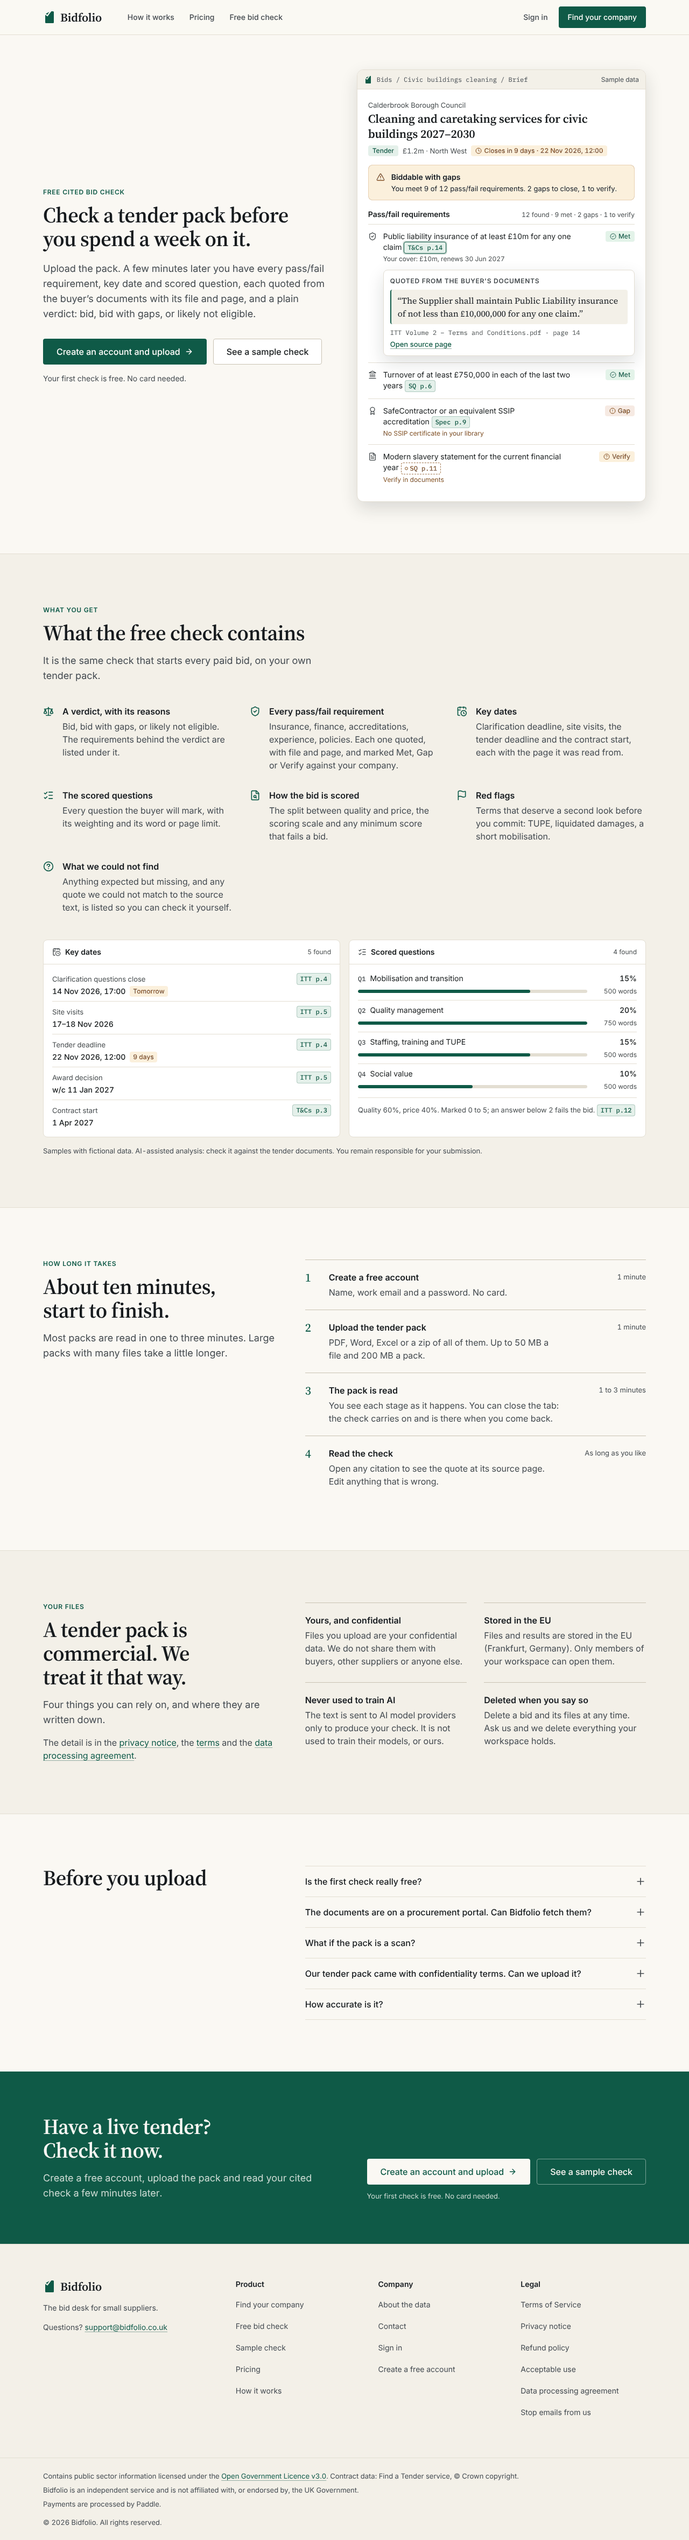
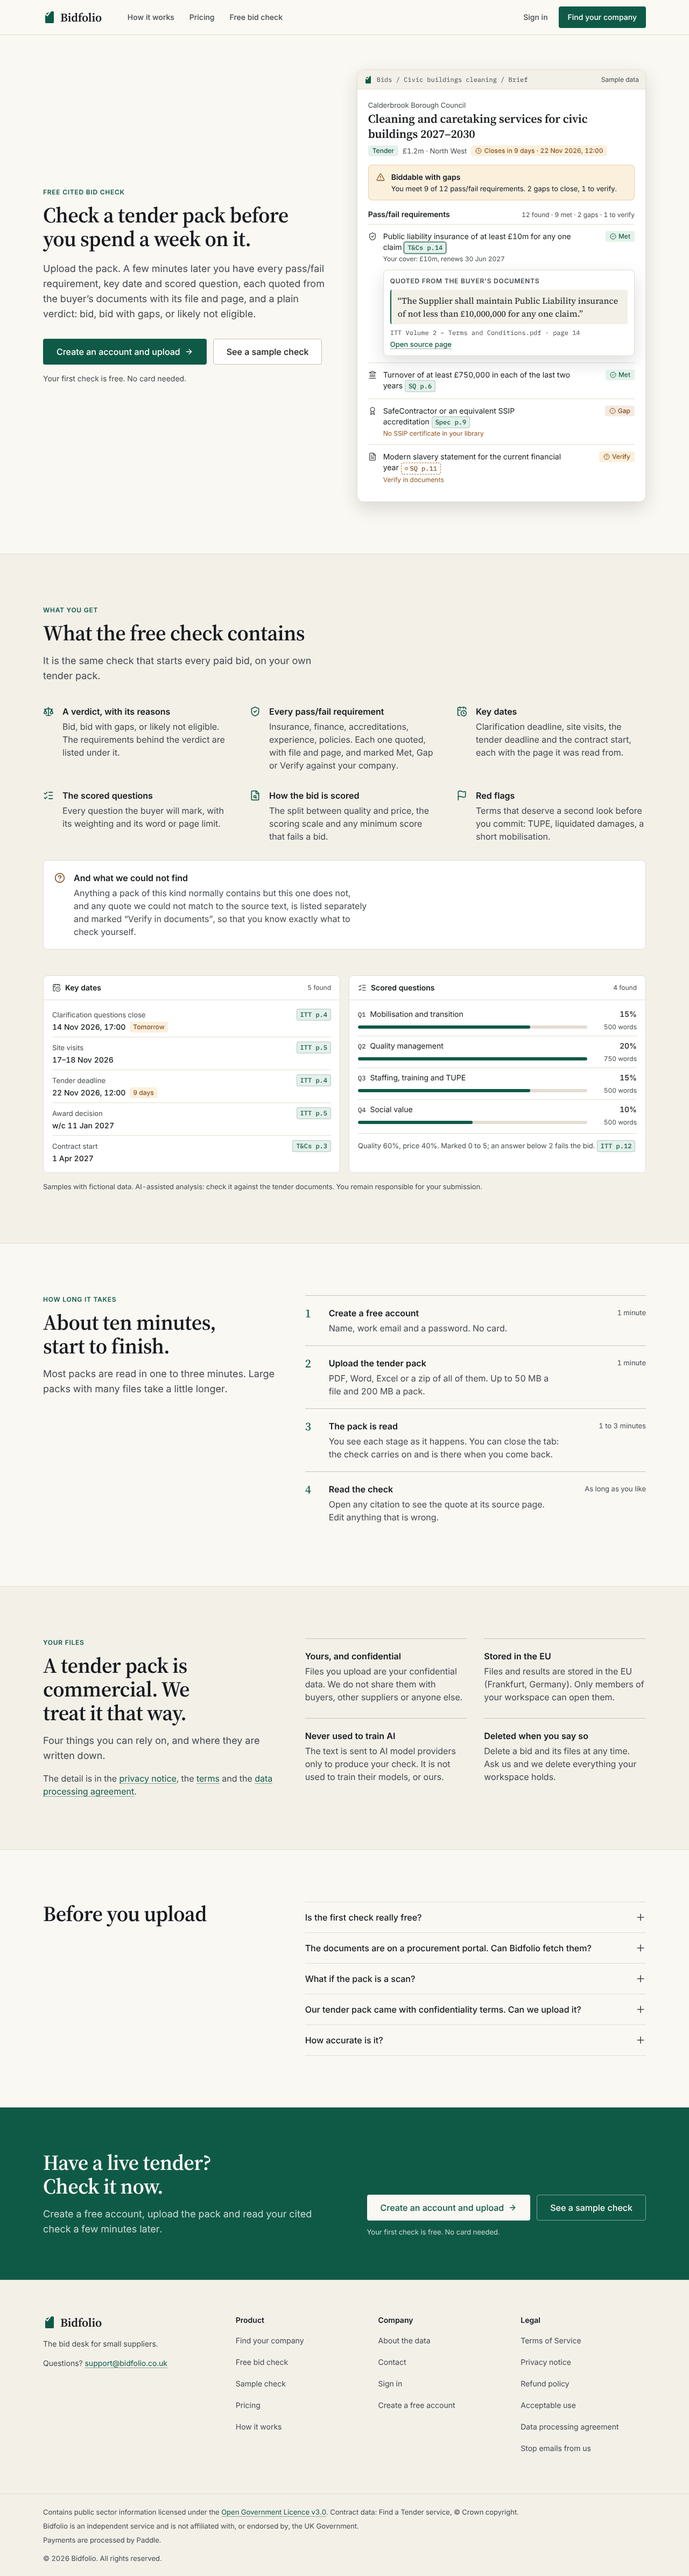
Copy fixes before the designer handoff: unconfirmed claims removed, callout for what a check could not find
- plans: drop the "Priority support" bullet (nothing in the spec backs it)
- free-bid-check: six-item grid, with "what we could not find" set apart as a note
- settings: activity-log line names the plan from the catalogue
- refreshed captures of the affected pages

Claude-Session: https://claude.ai/code/session_01QtwDV764zbwZrPMdXHyikj

diff --git a/src/app/(marketing)/free-bid-check/page.tsx b/src/app/(marketing)/free-bid-check/page.tsx
@@ -52,12 +52,13 @@ const contents = [
     title: "Red flags",
     body: "Terms that deserve a second look before you commit: TUPE, liquidated damages, a short mobilisation.",
   },
-  {
-    icon: CircleHelp,
-    title: "What we could not find",
-    body: "Anything expected but missing, and any quote we could not match to the source text, is listed so you can check it yourself.",
-  },
 ];
+
+/** Set apart from the list above: it is the part that makes the rest trustworthy. */
+const notFound = {
+  title: "And what we could not find",
+  body: "Anything a pack of this kind normally contains but this one does not, and any quote we could not match to the source text, is listed separately and marked “Verify in documents”, so that you know exactly what to check yourself.",
+};
 
 const steps = [
   { time: "1 minute", title: "Create a free account", body: "Name, work email and a password. No card." },
@@ -156,6 +157,13 @@ export default function FreeBidCheckPage() {
             </li>
           ))}
         </ul>
+        <div role="note" className="mt-8 grid grid-cols-[1.5rem_1fr] gap-x-3 rounded-card border border-line bg-surface p-5">
+          <CircleHelp aria-hidden className="mt-0.5 size-5 text-accent-ink" />
+          <div>
+            <h3 className="font-sans text-base leading-6 font-semibold text-ink">{notFound.title}</h3>
+            <p className="mt-1 max-w-reading text-base text-ink-2">{notFound.body}</p>
+          </div>
+        </div>
         <div className="mt-12 grid gap-4 md:grid-cols-2">
           <KeyDatesCard />
           <QuestionsCard />

diff --git a/src/app/app/settings/workspace/page.tsx b/src/app/app/settings/workspace/page.tsx
@@ -3,6 +3,7 @@ import Link from "next/link";
 import { PageHeader } from "@/components/app/page-header";
 import { WorkspaceForm } from "@/components/app/workspace-form";
 import { Card, CardContent, CardDescription, CardHeader, CardTitle } from "@/components/ui/card";
+import { PLANS } from "@/config/plans";
 import { listAuditLog } from "@/server/audit";
 import { requireOrgForPage } from "@/server/session";
 import { hasRole } from "@/server/workspaces";
@@ -37,7 +38,7 @@ export default async function WorkspaceSettingsPage() {
           <CardContent>
             {!auditEnabled ? (
               <p className="text-sm text-ink-2">
-                The audit log is part of the Pro plan and above.{" "}
+                The activity log is part of the {PLANS.pro.name} plan and above.{" "}
                 {ctx.role === "owner" ? (
                   <Link href="/app/settings/billing" className="link font-medium">
                     Upgrade

diff --git a/src/app/(marketing)/pricing/page.tsx b/src/app/(marketing)/pricing/page.tsx
@@ -88,7 +88,7 @@ export default function PricingPage() {
           <h1 id="pricing-title" className="type-h1 mt-3 text-ink">
             Pricing
           </h1>
-          <p className="type-lead mx-auto mt-4 max-w-xl">
+          <p className="type-lead mx-auto mt-4 max-w-xl text-balance">
             Start free. Pay monthly if you bid most months, or by the bid if you bid a few times a year. Every price is on this page: there is no demo call.
           </p>
         </header>

diff --git a/src/config/plans.ts b/src/config/plans.ts
@@ -154,7 +154,6 @@ export const PLANS: Record<PlanKey, Plan> = {
       "10 full bids a month; unused bids roll over one month",
       "Separate client workspaces",
       "10 seats",
-      "Priority support",
     ],
   },
 };
